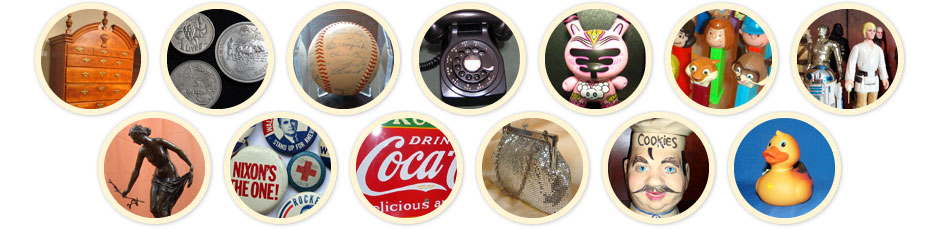
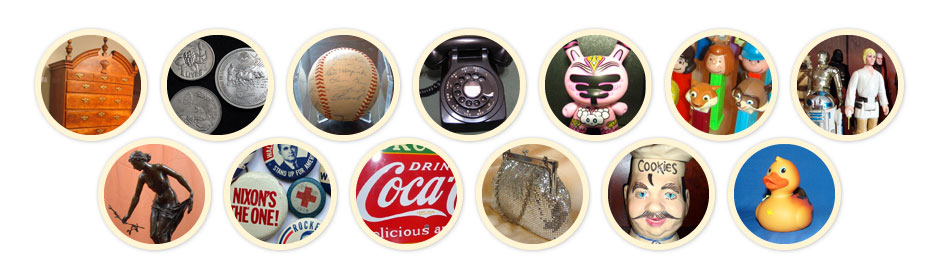
Improvements on "buy a credit" page

diff --git a/web/less/frontend/modules/seller.less b/web/less/frontend/modules/seller.less
@@ -444,8 +444,13 @@ span.current-price {
 
 .marketplace-buy-a-package {
   color: #125375;
+
+  .info-box-wrap {
+    overflow: hidden;
+  }
   .info-box {
-    padding: 15px 20px;
+    margin-bottom: -99999px;
+    padding: 15px 20px 99999px;
     background-color: #fffaea;
 
     h3 {
@@ -488,7 +493,7 @@ span.current-price {
   }
 
   .questions {
-    padding-left: 20px;
+    padding: 20px 0 0 20px;
 
     .question {
       width: 286px;
@@ -496,8 +501,10 @@ span.current-price {
 
       h3 {
         font-size: 20px;
+        margin-bottom: 20px;
 
         i {
+          margin-top: 5px;
           display: block;
           float: right;
         }

diff --git a/apps/frontend/modules/seller/templates/signupSuccess.php b/apps/frontend/modules/seller/templates/signupSuccess.php
@@ -6,10 +6,10 @@
       'alt' => "Promotional collectibles photos",
       'class' => 'header-image',
       'width' => 939,
-      'height' => 229,
+      'height' => 280,
   )); ?>
 
-  <div class="row-fluid">
+  <div class="row-fluid info-box-wrap">
     <div class="span6 info-box">
       <h3 class="Chivo webfont">Why sell with us?</h3>
       <ul class="unstyled">
